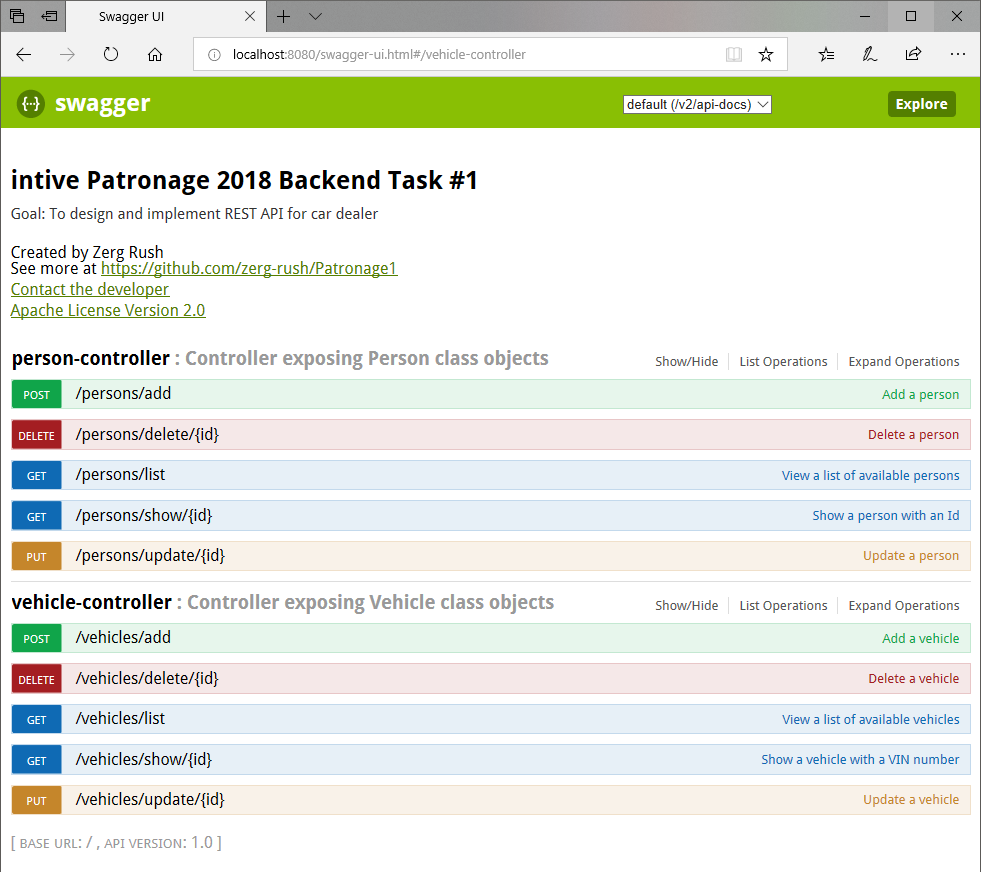
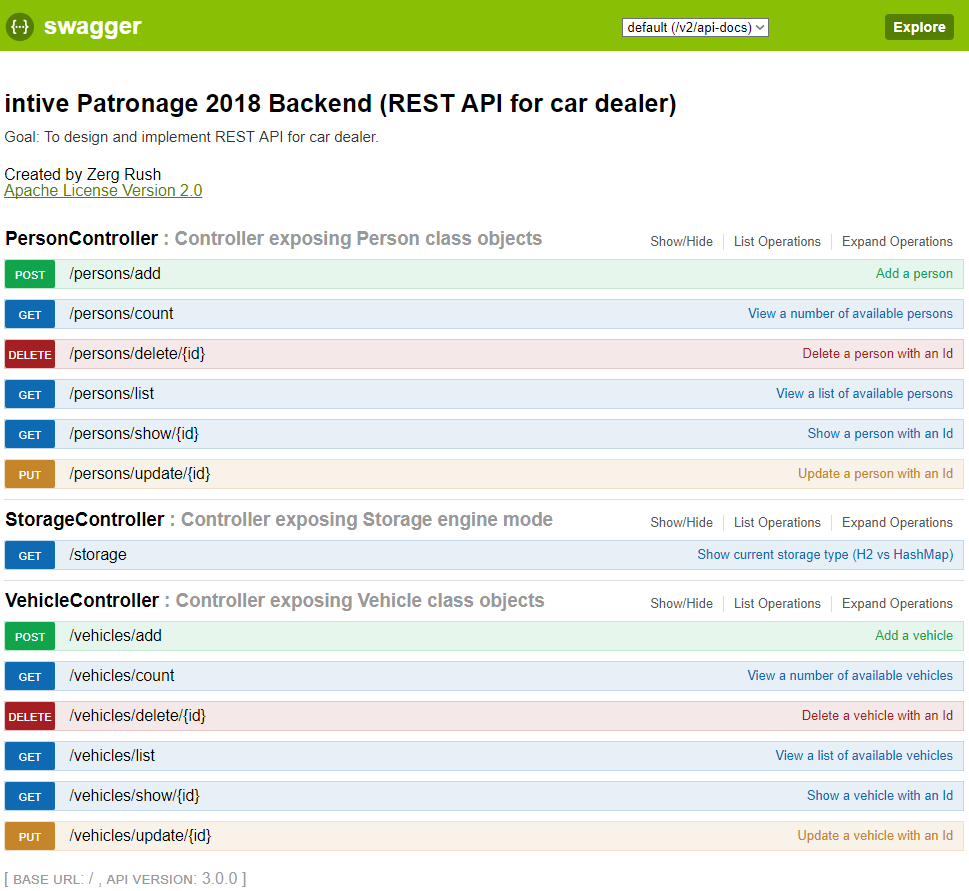
Cleaning code, updating readme and corresponding to final version of code.

Changed region(s): [[0.0, 0.0, 1.0, 1.0], [0.6811, 0.2477, 0.8359, 0.2787]]

diff --git a/src/main/java/pl/aszul/patronage/domain/Vehicle.java b/src/main/java/pl/aszul/patronage/domain/Vehicle.java
@@ -28,146 +28,201 @@ public class Vehicle implements ObjectId{
     @Id
     @GeneratedValue(strategy = GenerationType.AUTO)
     @JsonProperty(access = JsonProperty.Access.READ_ONLY)
-    @ApiModelProperty(notes = "The database generated vehicle ID")
+    @ApiModelProperty(notes = "The database generated vehicle ID", position = 1)
     private Integer id;
 
     @Version
     @JsonProperty(access = JsonProperty.Access.READ_ONLY)
-    @ApiModelProperty(notes = "The auto-generated version of the vehicle")
+    @ApiModelProperty(notes = "The auto-generated version of the vehicle", position = 2)
     private Integer version = 1;
 
-    @ApiModelProperty(notes = "type of vehicle")
+    @ApiModelProperty(notes = "type of vehicle",
+            example = "SAMOCHÓD OSOBOWY",
+            position = 3)
     private String vehicleType;
 
-    @ApiModelProperty(notes = "purpose of vehicle")
+    @ApiModelProperty(notes = "purpose of vehicle",
+            example = "---",
+            position = 4)
     private String vehiclePurpose;
 
-    @ApiModelProperty(notes = "manufacturing year")
+    @ApiModelProperty(notes = "manufacturing year",
+            example = "2018",
+            position = 5)
     private Integer manufacturingYear;
 
-    @ApiModelProperty(notes = "maximum load capacity")
+    @ApiModelProperty(notes = "maximum load capacity",
+            example = "---",
+            position = 6)
     private String maxLoadCapacity;
 
-    @ApiModelProperty(notes = "maximum axle pressure [N]")
+    @ApiModelProperty(notes = "maximum axle pressure [N]",
+            example = "8882",
+            position = 7)
     private Integer maxAxlePressure;
 
-    @ApiModelProperty(notes = "number of vehicle card")
+    @ApiModelProperty(notes = "number of vehicle card",
+            example = "AAA0000000",
+            position = 8)
     private String vehicleCardNumber;
 
-    @ApiModelProperty(notes = "series of vehicle registration card")
+    @ApiModelProperty(notes = "series of vehicle registration card",
+            example = "DR/AAA0007046",
+            position = 9)
     private String registrationCardSeries;
 
-    @ApiModelProperty(notes = "authority issuing vehicle registration card")
+    @ApiModelProperty(notes = "authority issuing vehicle registration card",
+            example = "PREZYDENT",
+            position = 10)
     private String registrationCardIssuedBy;
 
     @NotNull(message = "The plate number can not be null")
     @Pattern(regexp = "^(?!(.).*\\1)[A-Z]{2}[0-9]{1,8}$",
             message = "The plate number must start with two different big letters and have up to eight digits!")
     @ApiModelProperty(notes = "A — vehicle plate number",
-            allowableValues = "The plate number must start with two different big letters and have up to eight digits!",
-            required = true)
+            allowableValues = "must start with two different big letters and have up to eight digits!",
+            required = true,
+            example = "ZS12345678",
+            position = 11)
     private String plateNumber;
 
     @NotNull(message = "The first registration date can not be null!")
     @PastOrPresent(message = "The first registration date can not be from future!")
     @ApiModelProperty(notes = "B — vehicle first registration date",
-            allowableValues = "Have to be some date from past or at most today",
-            required = true)
+            allowableValues = "from past, till today",
+            required = true,
+            example = "2015-12-31",
+            position = 12)
     private LocalDate firstRegistrationDate;
 
-    @ApiModelProperty(notes = "C.1.1 — surname or name of vehicle registration card owner")
+    @ApiModelProperty(notes = "C.1.1 — surname or name of vehicle registration card owner",
+            example = "KOWALSKI JAN",
+            position = 13)
     private String registrationCardOwnerName;
 
-    @ApiModelProperty(notes = "C.1.2 — personal identification number of vehicle registration card owner (PESEL or REGON)")
+    @ApiModelProperty(notes = "C.1.2 — personal identification number of vehicle registration card owner (PESEL or REGON)",
+            position = 14)
     private String registrationCardOwnerIDNumber;
 
-    @ApiModelProperty(notes = "C.1.3 — address of vehicle registration card owner")
+    @ApiModelProperty(notes = "C.1.3 — address of vehicle registration card owner",
+            position = 15)
     private String registrationCardOwnerAddress;
 
-    @ApiModelProperty(notes = "C.2.1 — surname or name of vehicle owner")
+    @ApiModelProperty(notes = "C.2.1 — surname or name of vehicle owner",
+            example = "KOWALSKA MARIA",
+            position = 16)
     private String vehicleOwnerName;
 
-    @ApiModelProperty(notes = "C.2.2 — personal identification number of vehicle owner (PESEL or REGON)")
+    @ApiModelProperty(notes = "C.2.2 — personal identification number of vehicle owner (PESEL or REGON)",
+            position = 17)
     private String vehicleOwnerIDNumber;
 
-    @ApiModelProperty(notes = "C.2.3 — address of vehicle owner")
+    @ApiModelProperty(notes = "C.2.3 — address of vehicle owner",
+            position = 18)
     private String vehicleOwnerAddress;
 
     @NotNull(message = "The car brand name can not be null")
     @Pattern(regexp="HONDA|FIAT|SKODA", flags = { Pattern.Flag.CASE_INSENSITIVE },
             message = "Sorry, we buy and sell only cars manufactured by Honda, Fiat and Skoda")
     @ApiModelProperty(notes = "D.1 — vehicle brand name",
-            allowableValues = "Only Honda, Fiat and Skoda are allowed",
-            required = true)
+            allowableValues = "Honda, Fiat, Skoda",
+            required = true,
+            position = 19)
     private String brandName;
 
-    @ApiModelProperty(notes = "D.2 — vehicle type")
+    @ApiModelProperty(notes = "D.2 — full model name of vehicle",
+            position = 20)
     private String modelName;
 
-    @ApiModelProperty(notes = "D.3 — short model name of vehicle")
+    @ApiModelProperty(notes = "D.3 — short model name of vehicle",
+            position = 21)
     private String shortModelName;
 
-    @ApiModelProperty(notes = "E — Vehicle Identification Number (or frame)")
+    @ApiModelProperty(notes = "E — Vehicle Identification Number",
+            example = "1B7HF13YXYJ105403",
+            position = 22)
     private String vINNumber;
 
-    @ApiModelProperty(notes = "F.1 — maximum weight of vehicle (excluding motorcycles and motorbikes ) [kg]")
+    @ApiModelProperty(notes = "F.1 — maximum weight of vehicle (excluding motorcycles and motorbikes ) [kg]",
+            position = 23)
     private Integer maxWeight;
 
-    @ApiModelProperty(notes = "F.2 — acceptable total weight of vehicle [kg]")
+    @ApiModelProperty(notes = "F.2 — acceptable total weight of vehicle [kg]",
+            position = 24)
     private Integer acceptableWeight;
 
-    @ApiModelProperty(notes = "F.3 — acceptable total weight of vehicle group [kg]")
+    @ApiModelProperty(notes = "F.3 — acceptable total weight of vehicle group [kg]",
+            position = 25)
     private Integer acceptableGroupWeight;
 
-    @ApiModelProperty(notes = "G — vehicle own weight [kg]")
+    @ApiModelProperty(notes = "G — vehicle own weight [kg]",
+            position = 26)
     private Integer weight;
 
-    @ApiModelProperty(notes = "H — vehicle registration card expiry date (if applicable)")
+    @ApiModelProperty(notes = "H — vehicle registration card expiry date (if applicable)",
+            example = "2020-12-31",
+            position = 27)
     private LocalDate registrationCardExpiryDate;
 
     @NotNull(message = "The registration card issue date can not be null")
     @PastOrPresent(message = "The registration card issue date can not be from future")
     @ApiModelProperty(notes = "I — vehicle registration card issue date",
             allowableValues = "The registration card issue date must some date from past or at most today!",
-            required = true)
+            required = true,
+            example = "2000-12-31",
+            position = 28)
     private LocalDate registrationCardIssueDate;
 
-    @ApiModelProperty(notes = "J — vehicle category")
+    @ApiModelProperty(notes = "J — vehicle category",
+            position = 29)
     private String vehicleCategory;
 
-    @ApiModelProperty(notes = "K — vehicle homologation number (if applicable)")
+    @ApiModelProperty(notes = "K — vehicle homologation number (if applicable)",
+            position = 30)
     private String homologationNumber;
 
-    @ApiModelProperty(notes = "L — number of vehicle axles")
+    @ApiModelProperty(notes = "L — number of vehicle axles",
+            position = 31)
     private Integer axleNumber;
 
-    @ApiModelProperty(notes = "O.1 — maximum total weight with trailer with brakes [kg]")
+    @ApiModelProperty(notes = "O.1 — maximum total weight with trailer with brakes [kg]",
+            position = 32)
     private String maxWeightWTrailerWBreaks;
 
-    @ApiModelProperty(notes = "O.2 — maximum total weight with trailer without brakes [kg]")
+    @ApiModelProperty(notes = "O.2 — maximum total weight with trailer without brakes [kg]",
+            position = 33)
     private String maxWeightWTrailerWOBreaks;
 
     @NotNull(message = "The engine capacity can not be null")
     @Range(min = 50, max = 6999, message = "The engine capacity must be bigger than {min} and less than {max} [cm3]")
     @ApiModelProperty(notes = "P.1 — vehicle engine capacity [cm3]",
-            allowableValues = "Engine capacity must be The registration card issue date must some date from past or at most today!",
-            required = true)
+            allowableValues = "range[50, 6999]",
+            required = true,
+            position = 34)
     private Integer engineCapacity;
 
-    @ApiModelProperty(notes = "P.2 — maximum engine power [W]")
+    @ApiModelProperty(notes = "P.2 — maximum engine power [W]",
+            example = "200000",
+            position = 35)
     private Integer enginePower;
 
-    @ApiModelProperty(notes = "P.3 — fuel type")
+    @ApiModelProperty(notes = "P.3 — fuel type",
+            example = "DIESEL",
+            position = 36)
     private FuelType fuelType;
 
-    @ApiModelProperty(notes = "Q — vehicle power to weight ratio (excluding motorcycles and motorbikes) [kW/kg]")
+    @ApiModelProperty(notes = "Q — vehicle power to weight ratio (excluding motorcycles and motorbikes) [kW/kg]",
+            position = 37)
     private String powerToWeightRatio;
 
-    @Range(min = 1, max = 6, message = "Car must have at least {min} and at most {max} seats!")
-    @ApiModelProperty(notes = "S.1 — vehicle number of seats (including drivers seat )")
+    @Range(min = 1, max = 6, message = "Vehicle must have at least {min} and at most {max} seats!")
+    @ApiModelProperty(notes = "S.1 — vehicle number of seats (including drivers seat )",
+            allowableValues = "range[1, 6]",
+            position = 38)
     private Integer seats;
 
-    @ApiModelProperty(notes = "S.2 — vehicle number of standing places (if applicable )")
+    @ApiModelProperty(notes = "S.2 — vehicle number of standing places (if applicable )",
+            position = 39)
     private Integer standingPlaces;
 
     public Vehicle(){
@@ -240,7 +295,7 @@ public class Vehicle implements ObjectId{
                 vINNumber, 1100, 1200, 1300, 1000,
                 LocalDate.parse("2019-01-01"), registrationCardIssueDate, "M1",
                 "HOM1234567890", 2, "1000",
-                "450", engineCapacity, enginePower, FuelType.DIESEL,
+                "450", engineCapacity, enginePower, fuelType,
                 "---", 4, 0);
     }
 
@@ -253,13 +308,13 @@ public class Vehicle implements ObjectId{
         this.id = id;
     }
 
-    public Integer getVersion() {
+/*    public Integer getVersion() {
         return version;
     }
 
     public void setVersion(Integer version) {
         this.version = version;
-    }
+    }*/
 
     public String getVehicleType() {
         return vehicleType;

diff --git a/src/main/java/pl/aszul/patronage/domain/Person.java b/src/main/java/pl/aszul/patronage/domain/Person.java
@@ -40,7 +40,7 @@ public class Person implements ObjectId{
     private Gender gender;
 
     @JsonFormat(shape = JsonFormat.Shape.STRING, pattern = "yyyy-MM-dd")
-    @ApiModelProperty(notes = "Birth date of person", required = true)
+    @ApiModelProperty(notes = "Birth date of person", required = true, position = 1, example = "2000-01-01", dataType = "")
     private LocalDate birthDate;
 
     @ApiModelProperty(notes = "Personal identification number value (PESEL, NIP, REGON, ID card number, passport number etc.)")

diff --git a/src/main/java/pl/aszul/patronage/controllers/StorageController.java b/src/main/java/pl/aszul/patronage/controllers/StorageController.java
@@ -10,7 +10,7 @@ import java.util.Map;
 
 @RestController
 @RequestMapping(value = "/storage", produces = { "application/json", "application/xml" })
-@Api(value = "onlinestore", description = "Controller exposing Storage engine mode", tags = "StorageController")
+@Api(value = "onlinestore", description = "Controller exposing Storage engine mode", tags = "StorageController", position = 1)
 public class StorageController {
 
     @ApiOperation(value = "Show current storage type (H2 vs HashMap)")

diff --git a/README.md b/README.md
@@ -16,20 +16,18 @@ Project structure
 ![](images/Project%20structure.png)
 
 
-Updated project structure with three brand new class-level validation constrains (for plate number, first registration and registration date) and Enum classes (for engine fuel type, gender and ID number type):
-
-![](images/Project%20structure%202.png)
-
-
 Designated Endpoints
 --------------------
-Swagger2 REST API specification file (available to download at [http://localhost:8080/v2/api-docs](http://localhost:8080/v2/api-docs))
+Swagger2 REST API JSON specification file (available to download at [http://localhost:8080/v2/api-docs](http://localhost:8080/v2/api-docs))
 ![](images/swagger-api-docs.png)
 
-Swagger2 (additional frontend component included in the project) generated doc:  
+Swagger2 UI (frontend component) generated doc:  
 [http://localhost:8080/swagger-ui.html#/](http://localhost:8080/swagger-ui.html#/)
 ![](images/swagger1.png)
 
+Extra storage endpoint (to check which storage mode is chosen):
+![](images/Extra_storage_endpoint.png)
+ 
 ![](images/swagger2.png)
 
 ![](images/swagger3.png)
@@ -63,9 +61,42 @@ IntelliJ REST API assistant tool:
 
 ![](images/IntelliJ%20Test%20REST%20API%20plugin.png)
 
+Swagger2 UI presenting specific HTTP codes fine tuned for each method/endpoint
+---------------------------
+add Person method (POST /persons/add, HTTP codes: 201, 400):
+![](images/HTTP_codes_1.png)
+
+delete Person method (DELETE /persons/delete/{id}, HTTP codes: 404):
+![](images/HTTP_codes_3.png)
+
+show Person method (GET /persons/show/{id}, HTTP codes: 404):
+![](images/HTTP_codes_5.png)
+
+update Person method (PUT /persons/update/{id}, HTTP codes: 202, 400, 404):
+![](images/HTTP_codes_6.png)
+ 
+
+Swagger2 UI presenting domain model class Person
+-----------------------------------------------
+![](images/Swagger_model_definition_person.png)
+
+
+Swagger2 UI presenting domain model class Vehicle
+-----------------------------------------------
+![](images/Swagger_model_definition_vehicle.png)
+
 Environment variable H2_STORAGE_ENABLED set to false in IntelliJ IDE (for tests):
 --------------------------------------------------------------------------------
 ![](images/environment%20setting%20for%20H2%20in%20IntelliJ.png)
+
+
+Demo of validating vehicle plate number
+---------------------------------------
+![](images/validation_demo_wrong_plate_number.png)
+
+Demo of validating engine capacity, vehicle brand and number of seats
+---------------------------------------
+![](images/validation_demo_engine_brand_seats.png)
 
 
 1) Simplest one with interner browser
